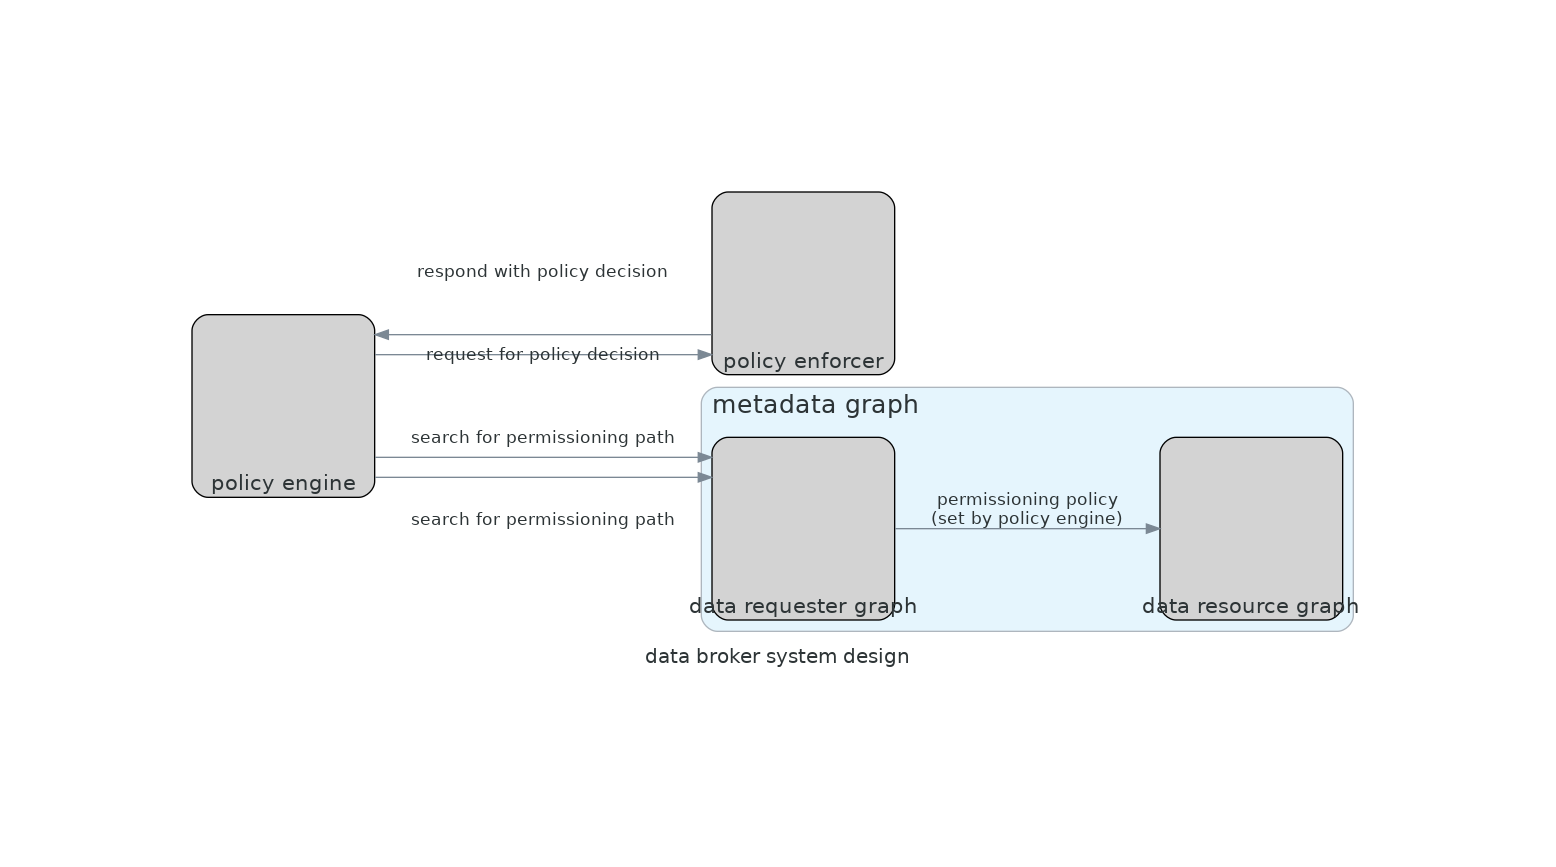
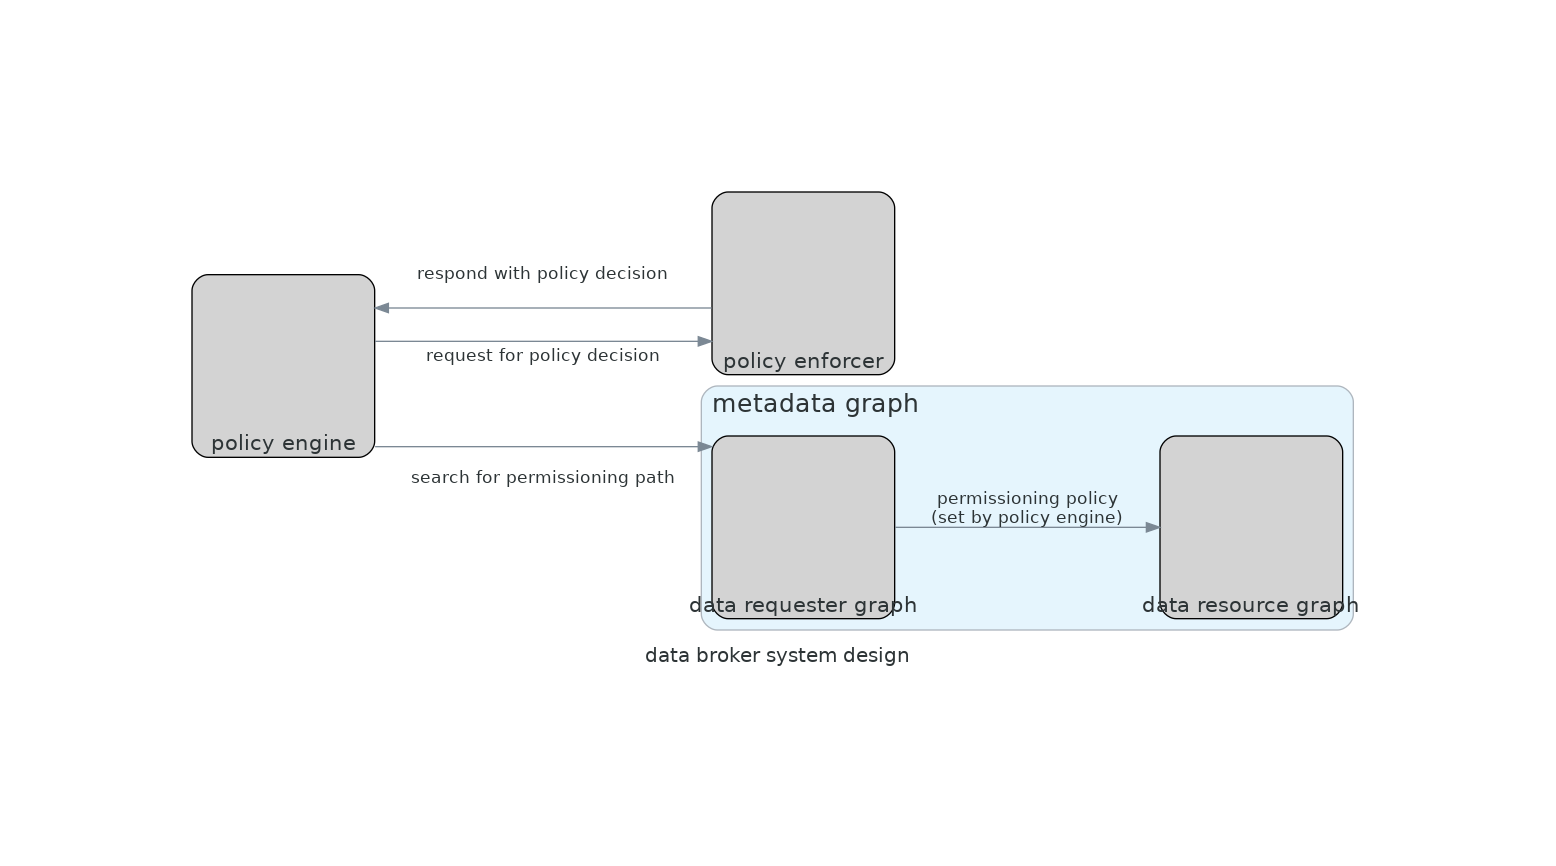
update readme diagram

diff --git a/readme_diagrams.py b/readme_diagrams.py
@@ -36,9 +36,3 @@ with Diagram("data broker system design", show=False):
         >> Edge(label="search for permissioning path")
         >> data_requester_graph
     )
-
-    (
-        policy_engine
-        >> Edge(label="search for permissioning path")
-        >> data_requester_graph
-    )
